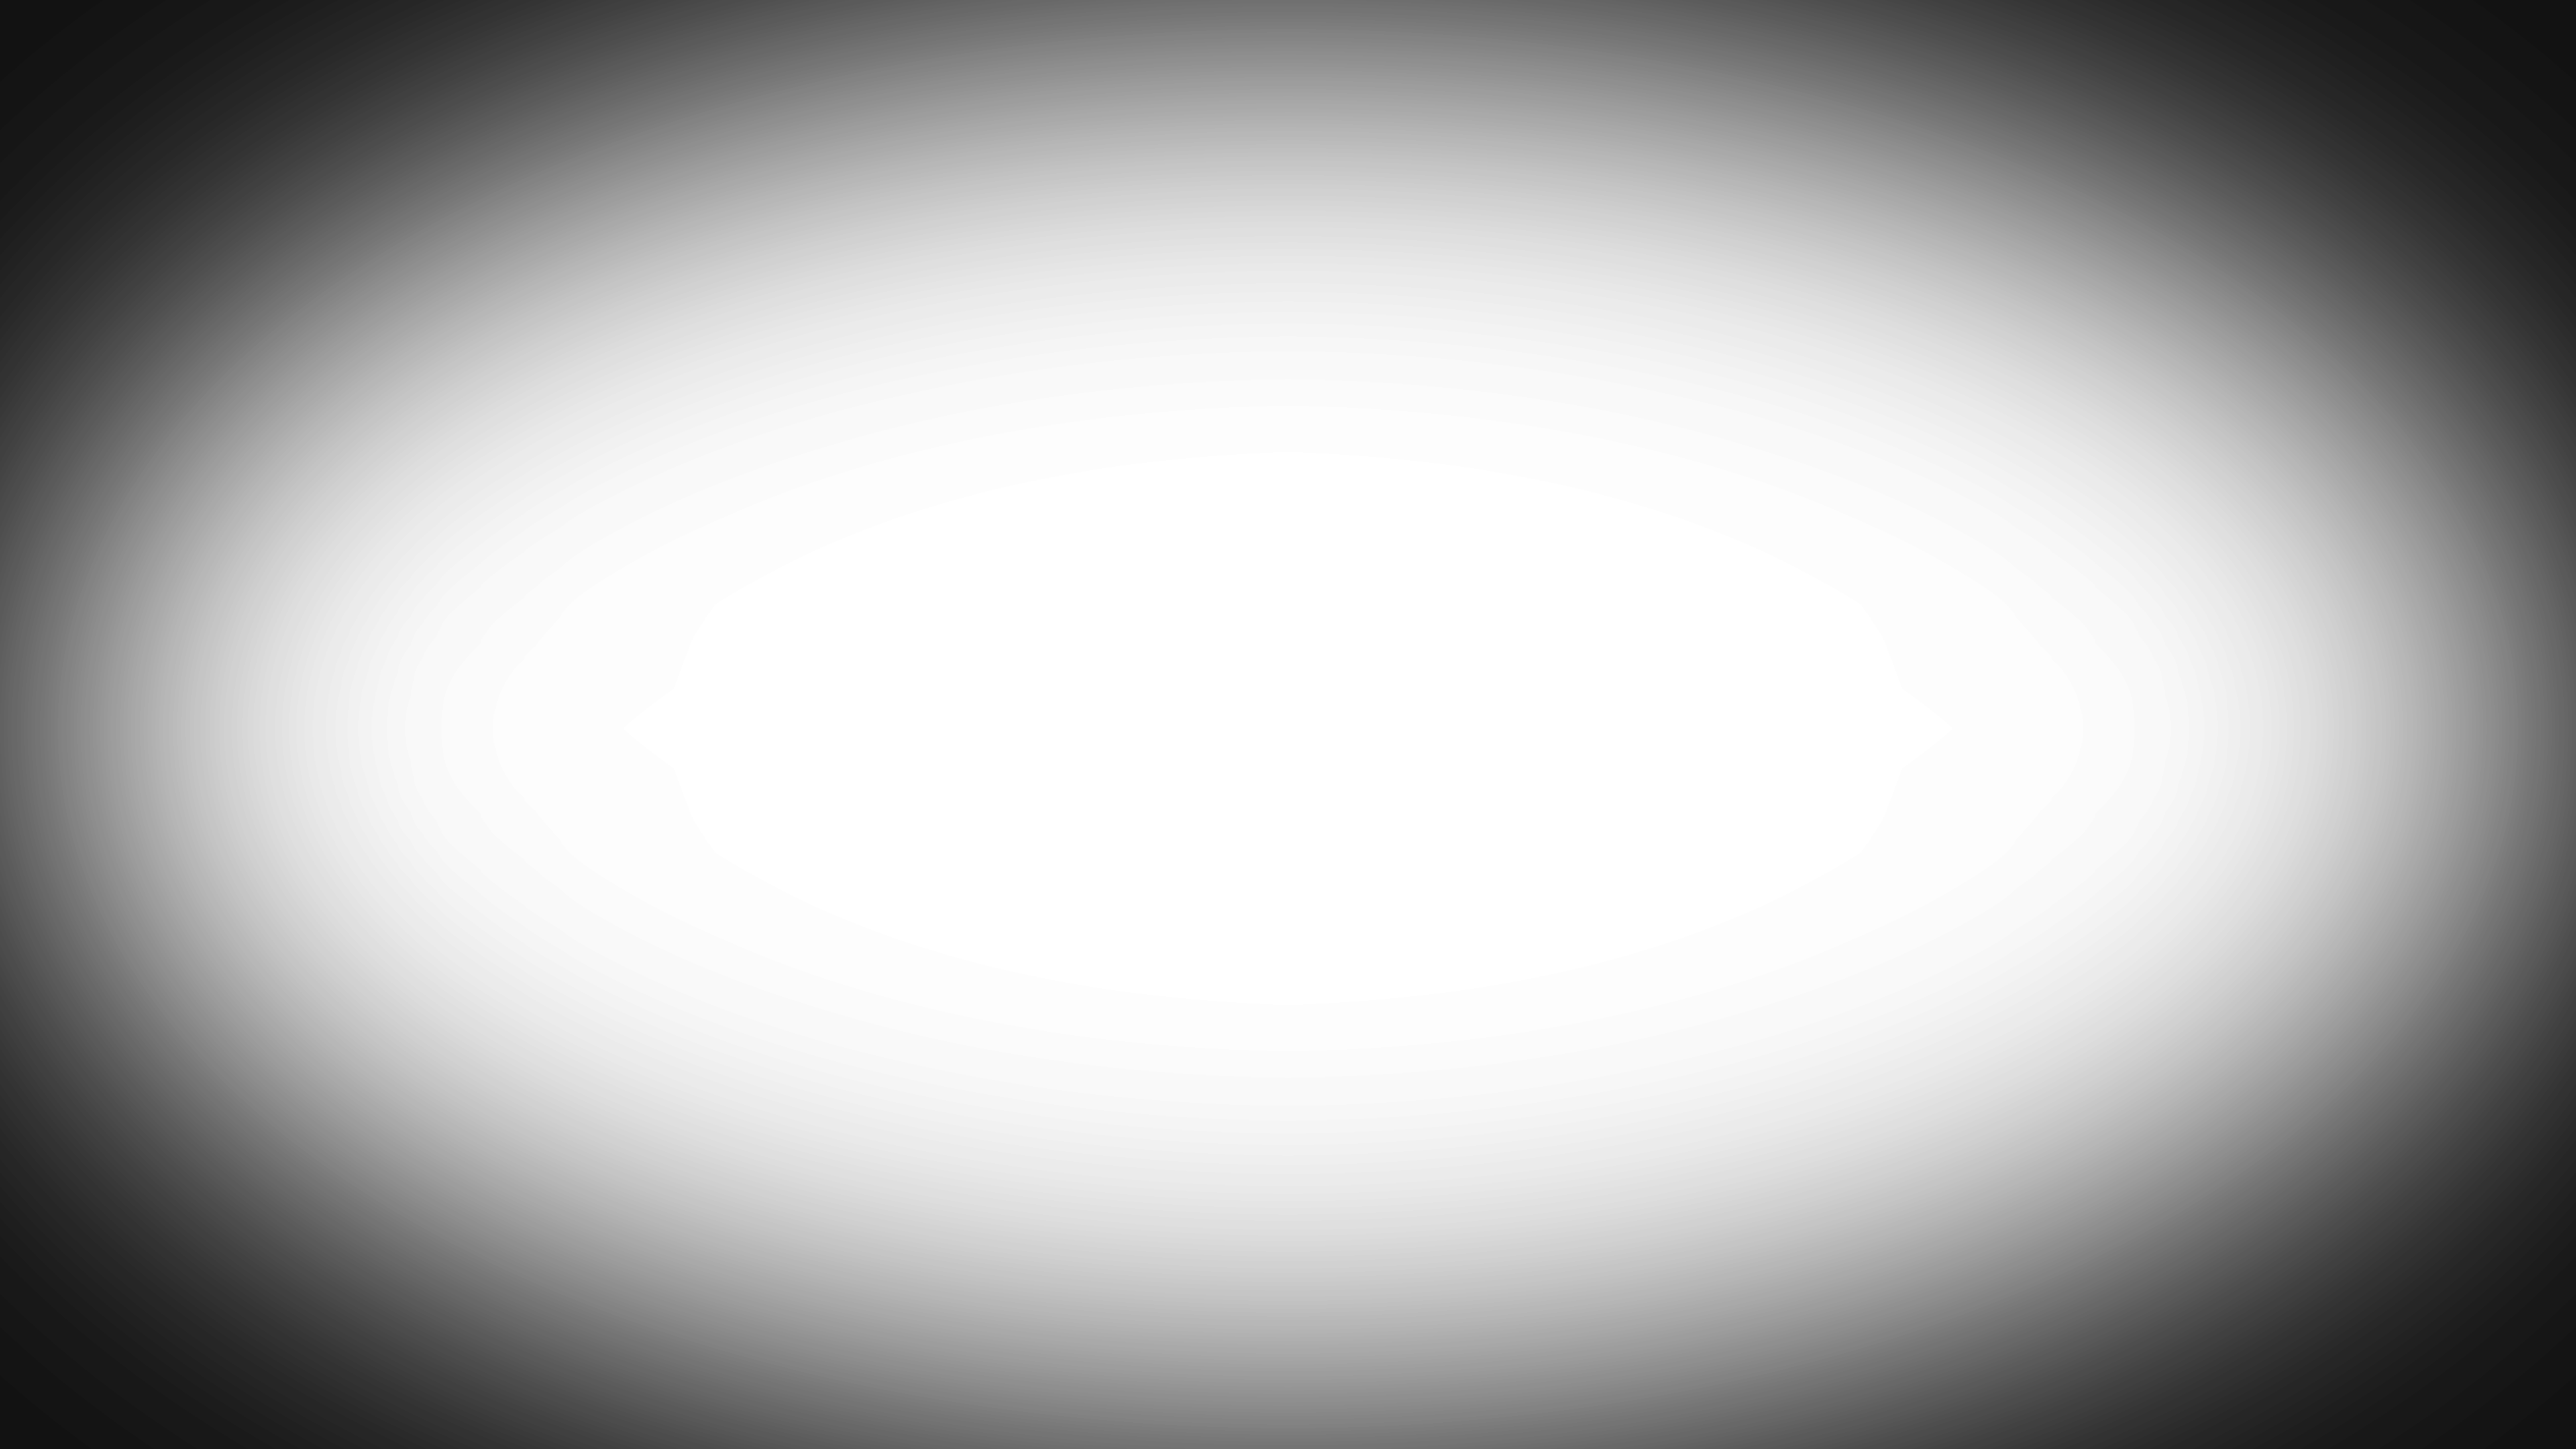
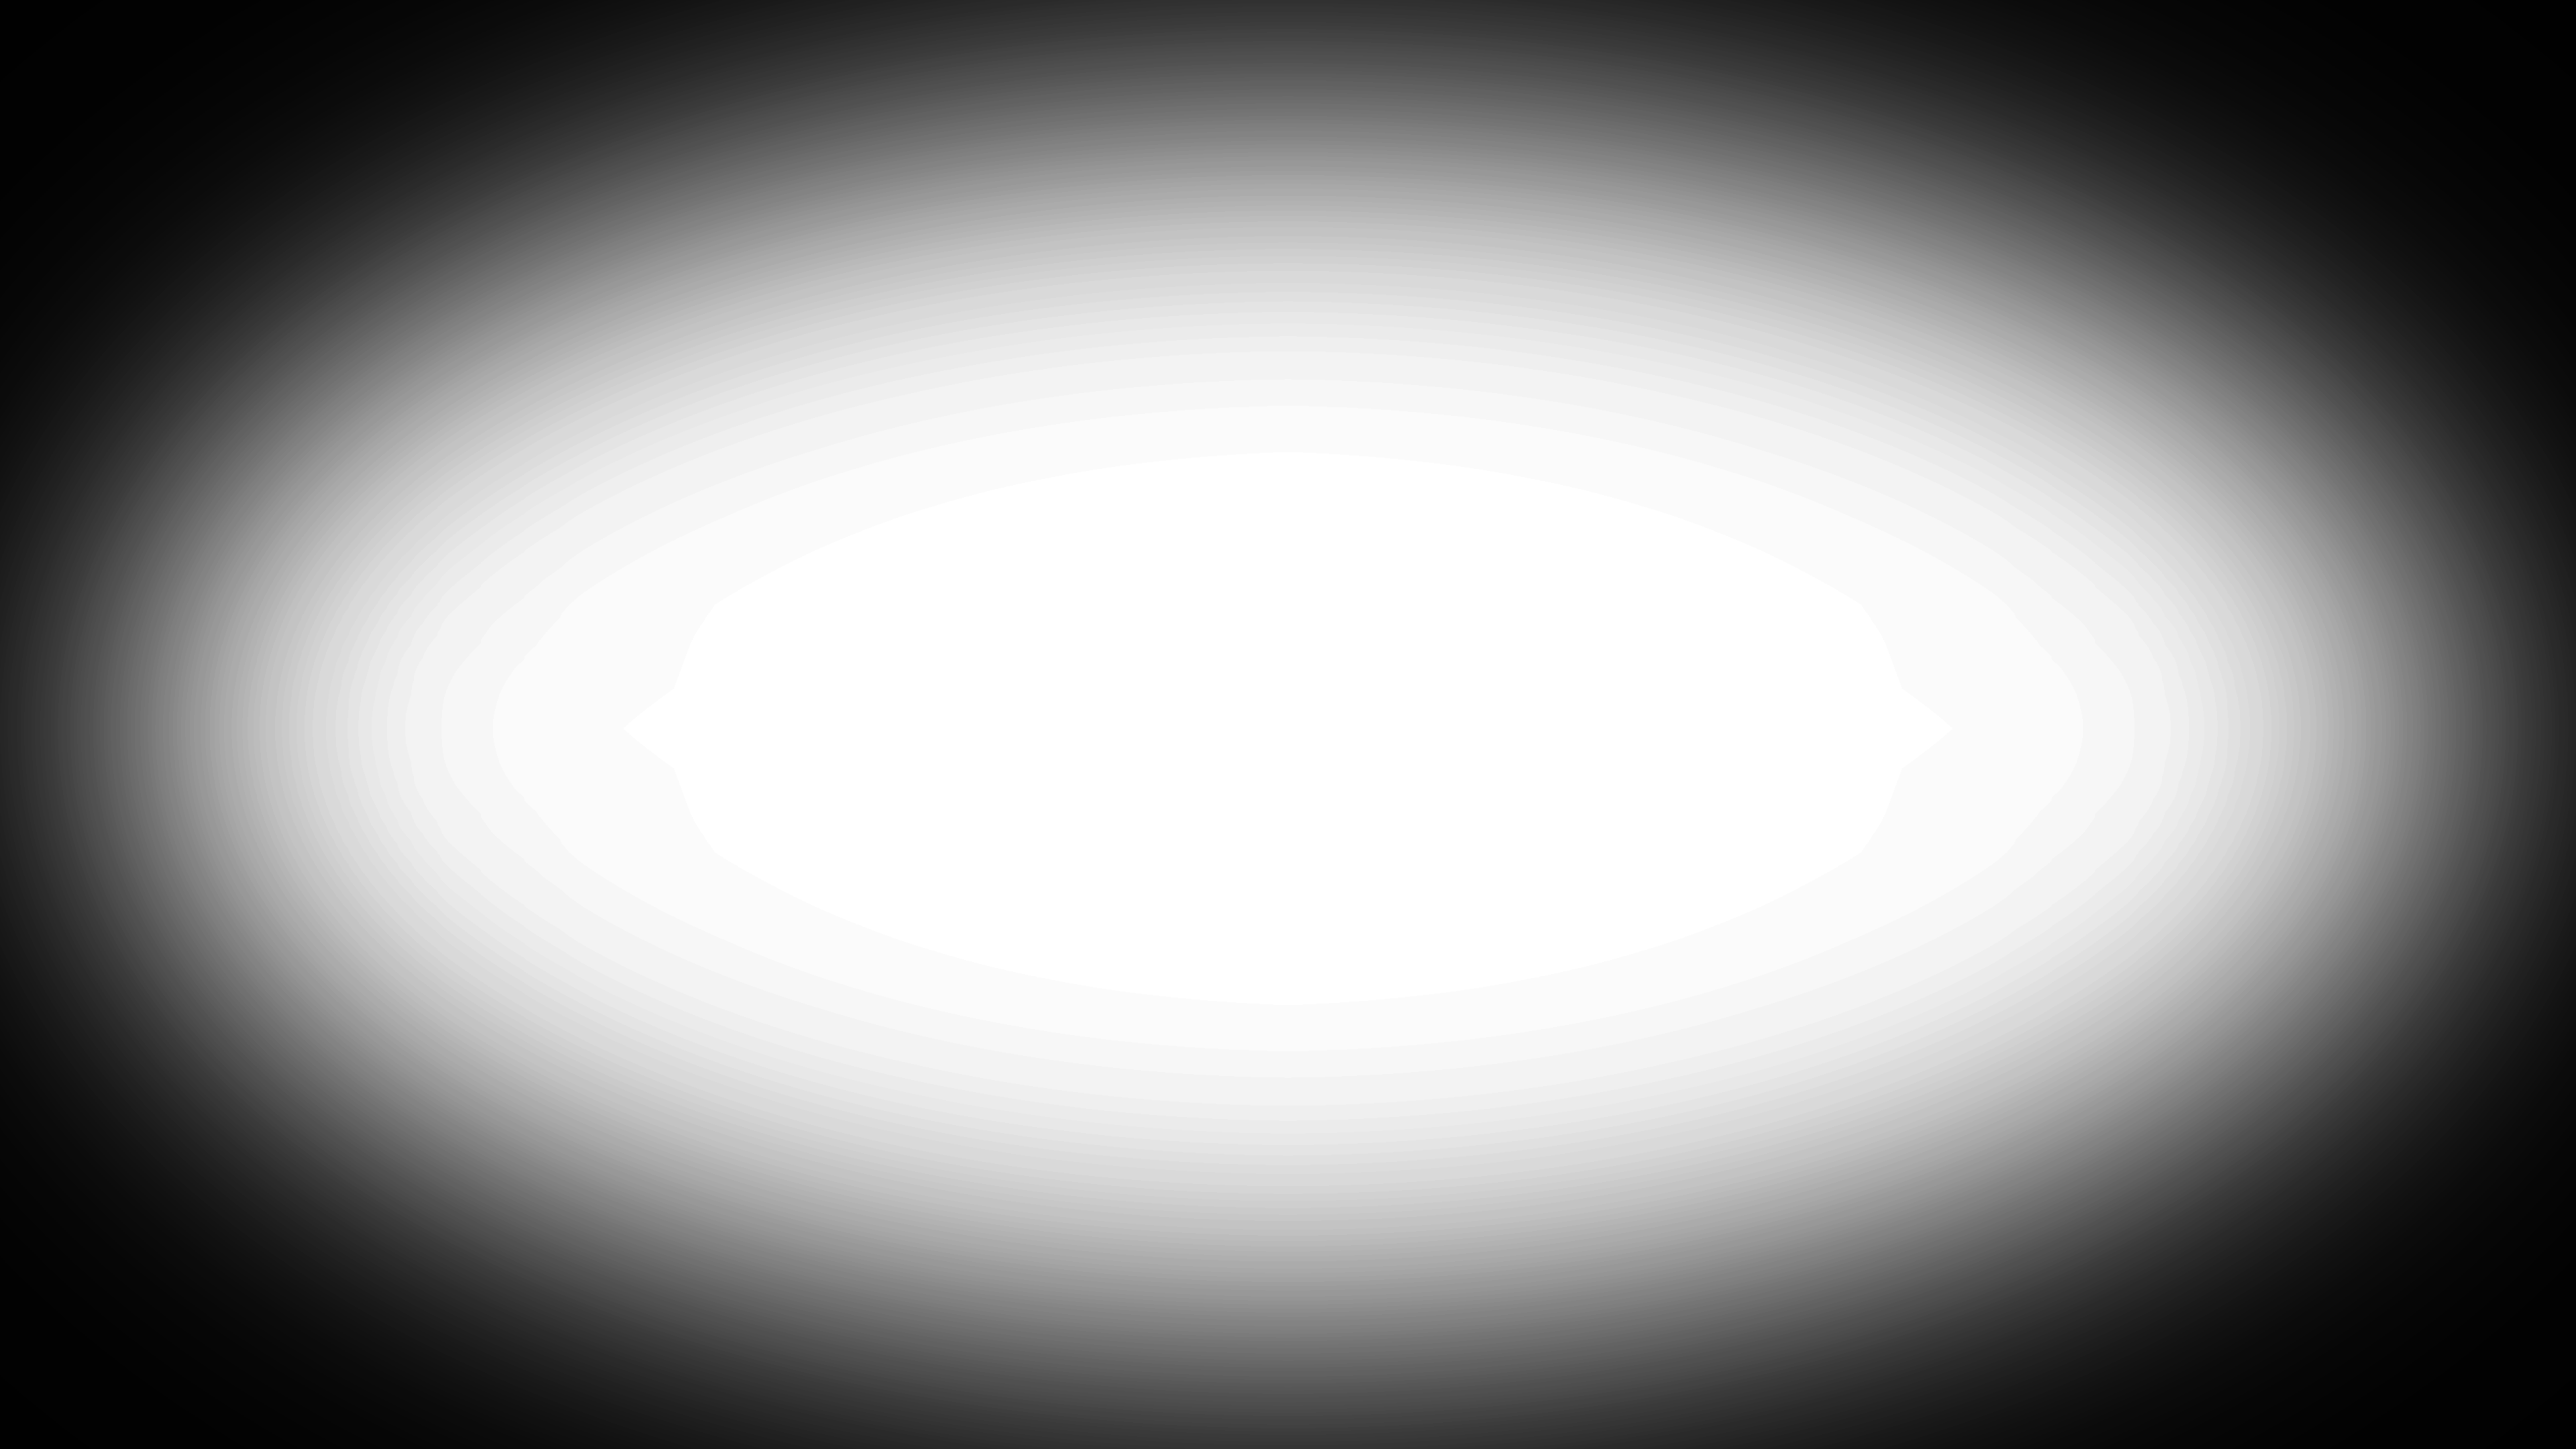
Adjust stamina overlay

diff --git a/Snowy-Path/Assets/Scripts/HUD/HUD.cs b/Snowy-Path/Assets/Scripts/HUD/HUD.cs
@@ -11,6 +11,8 @@ public class HUD : MonoBehaviour {
     [SerializeField] Image breathOverlay;
     [SerializeField] Image blueOverlay;
 
+    [SerializeField] AnimationCurve staminaCurve;
+
     private GenericHealth playerHealth;
 
     private const float freezeThreshold = 0.3f;
@@ -42,7 +44,8 @@ public class HUD : MonoBehaviour {
 
     public void SetStamina(float amount) {
         Color color = staminaOverlay.color;
-        color.a = Mathf.Clamp(10 * amount, 0, 1);
+        color.a = Mathf.Clamp(staminaCurve.Evaluate(amount), 0, 1);
+        Debug.Log(color.a);
         staminaOverlay.color = color;
     }
 
